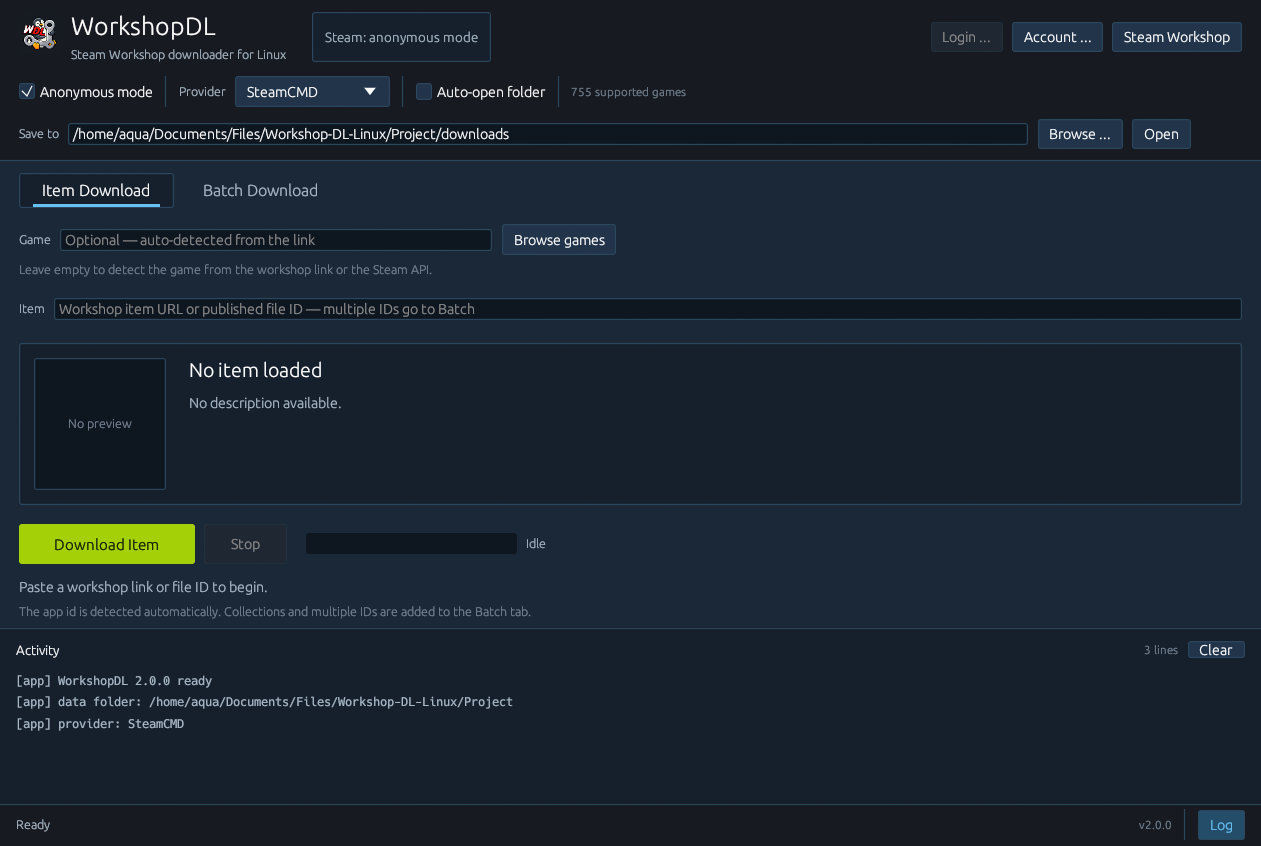
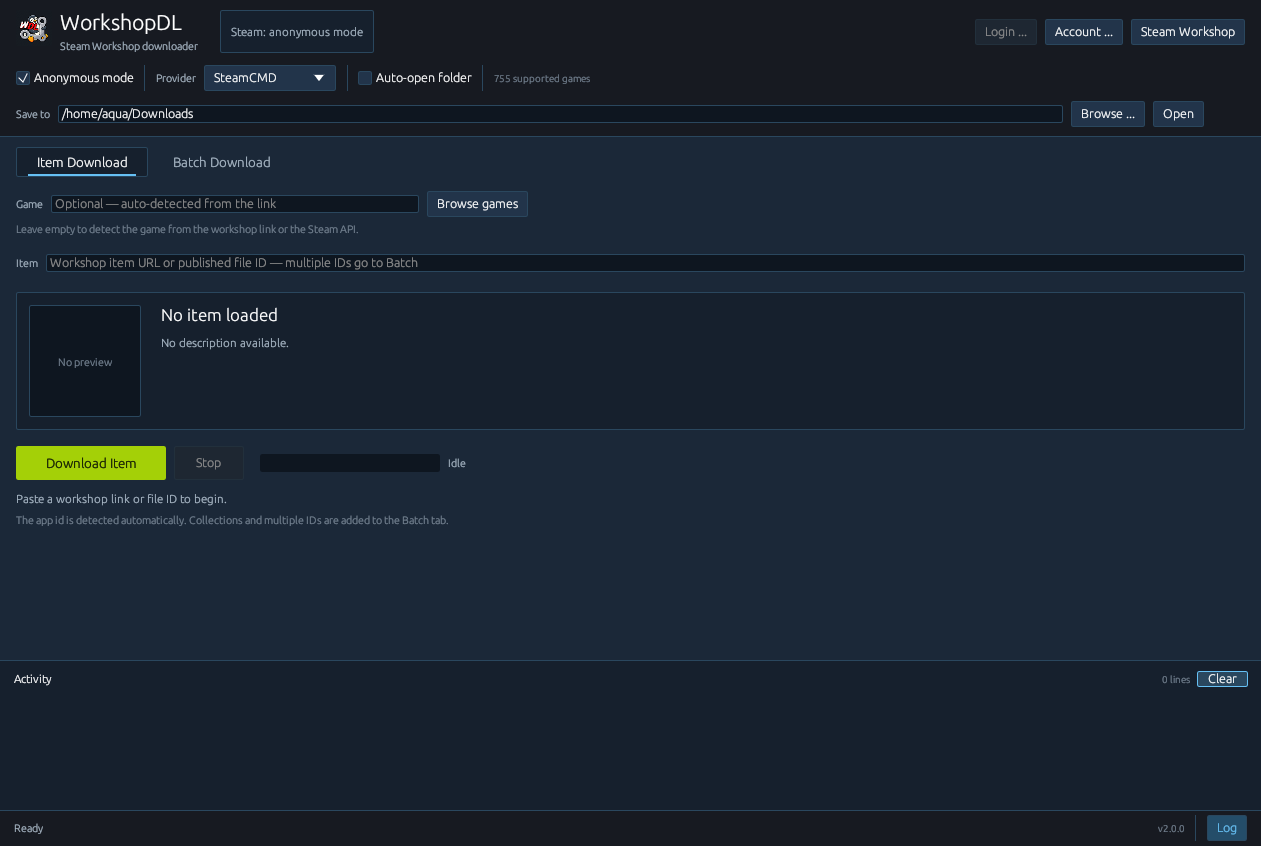
Remove Linux from WorkshopDL branding

diff --git a/src/desktop.rs b/src/desktop.rs
@@ -4,7 +4,7 @@ use std::path::{Path, PathBuf};
 use crate::util;
 
 pub const APP_ID: &str = "workshopdl-linux";
-pub const APP_NAME: &str = "WorkshopDL for Linux";
+pub const APP_NAME: &str = "WorkshopDL";
 pub const ICON_256: &[u8] = include_bytes!("../assets/workshopdl-linux-256.png");
 
 pub fn icon_data() -> Option<egui::IconData> {
@@ -55,9 +55,9 @@ pub fn install_integration(project: &Path) {
         "[Desktop Entry]\n\
          Type=Application\n\
          Version=1.0\n\
-         Name=WorkshopDL for Linux\n\
+         Name=WorkshopDL\n\
          GenericName=Steam Workshop Downloader\n\
-         Comment=Download Steam Workshop items on Linux\n\
+         Comment=Download Steam Workshop items\n\
          Exec={exec}\n\
          TryExec={try_exec}\n\
          Path={path_line}\n\

diff --git a/src/app.rs b/src/app.rs
@@ -1627,7 +1627,7 @@ impl WorkshopApp {
                                 .color(TEXT),
                         );
                         ui.label(
-                            RichText::new("Steam Workshop downloader for Linux")
+                            RichText::new("Steam Workshop downloader")
                                 .size(11.0)
                                 .color(MUTED),
                         );

diff --git a/README.md b/README.md
@@ -2,10 +2,10 @@
   <img src="assets/workshopdl-linux-128.png" width="112" alt="WorkshopDL icon">
 </p>
 
-<h1 align="center">WorkshopDL for Linux</h1>
+<h1 align="center">WorkshopDL</h1>
 
 <p align="center">
-  A native Steam Workshop downloader for Linux, written entirely in Rust with
+  A native Steam Workshop downloader, written entirely in Rust with
   <a href="https://github.com/emilk/eframe">eframe</a> and
   <a href="https://github.com/emilk/egui">egui</a>. No Python, Electron, or
   embedded browser is required.
